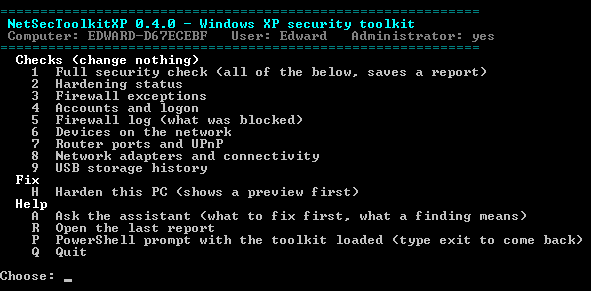
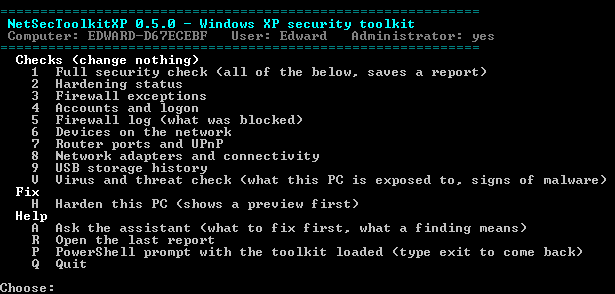
README: 0.5.0 menu screenshot from XP

Changed region(s): [[0.0, 0.0309, 1.0, 1.0], [0.7005, 0.0309, 0.8223, 0.0619]]

diff --git a/README.md b/README.md
@@ -46,9 +46,7 @@ The repo also has `relay\Start-ClaudeRelay.ps1`, which runs on the modern host P
 2. Extract it. Keep `NetSecToolkitXP.exe` and the `NetSecToolkitXP` folder together.
 3. Double-click **`NetSecToolkitXP.exe`**. Log on as an administrator for option H.
 
-![NetSecToolkitXP.exe menu running on Windows XP SP3](docs/images/exe-menu.png)
-
-*(Screenshot from 0.4.0. Version 0.5.0 adds **V  Virus and threat check** under Checks.)*
+![NetSecToolkitXP.exe 0.5.0 menu running on Windows XP SP3](docs/images/exe-menu.png)
  NetSecToolkitXP 0.4.0 - Windows XP security toolkit
  Computer: XPVM   User: Edward   Administrator: yes
   Checks (change nothing)
@@ -421,7 +419,7 @@ All real-machine testing so far has been on one VM:
 | 0.3.0 | `Invoke-XPSecurityCheck`, on the hardened VM | Ran end to end and saved its transcript, HTML report and snapshot; three false findings, fixed in 0.3.1. Also the first VM run of the 0.2.3 fixes (NetBIOS checked on every interface, Guest found by its SID) |
 | 0.4.0 | `NetSecToolkitXP.exe`, double-clicked on the VM | Opened the menu (window title, version, administrator detected) and option H ran the hardening |
 | 0.3.1 | Not yet on its own | Its changes are included in 0.4.0 |
-| 0.5.0 | Not yet | Threat check tested on mocks (clean, hardened, infected) |
+| 0.5.0 | `NetSecToolkitXP.exe` 0.5.0, double-clicked on the VM | Opened the 0.5.0 menu with the new option V; the threat check itself is tested on mocks (clean, hardened, infected), VM run pending |
 
 ### 0.2.2: hardening run
 
